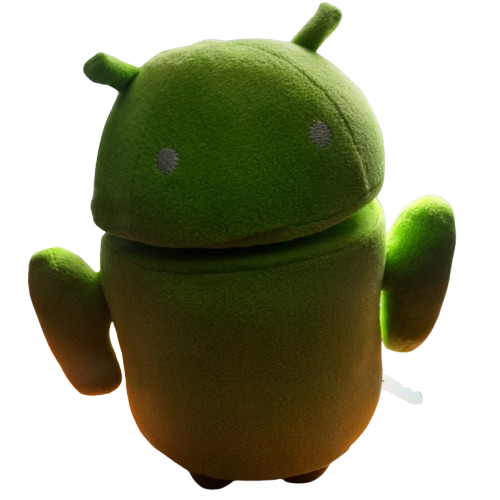
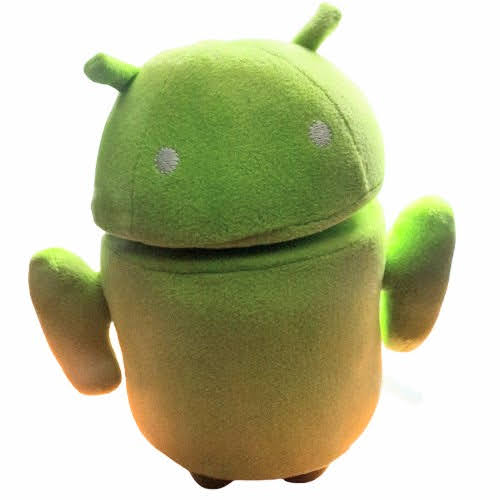
2 LEGO products

diff --git a/toys/android-lego-ideas.html b/toys/android-lego-ideas.html
@@ -1,0 +1,73 @@
+<!DOCTYPE html>
+<html lang="en">
+<head>
+    <title>Android (LEGO Ideas)</title>
+    <meta name="description" content="The Android from LEGO Ideas was a proposed Bugdroid statue based off the classic design. It has moveable arms, antennas, and a turning head.">
+    <meta name="theme-color" content="#A4C639">
+    <meta name="keywords" content="LEGO, statue, Bugdroid, Droid, Android, Google">
+    <meta name="viewport" content="width=device-width, initial-scale=1">
+    <meta property="og:title" content="Android (LEGO Ideas)">
+    <meta property="og:description" content="The Android from LEGO Ideas was a proposed Bugdroid statue based off the classic design. It has moveable arms, antennas, and a turning head.">
+    <meta property="og:url" content="https://bugdroid.org/toys/android-lego-ideas">
+    <meta property="og:image" content="https://bugdroid.org/media/products/android-lego-1.png">
+    <meta property="og:image:alt" content="A Bugdroid statue built from LEGO bricks.">
+    <meta property="og:image:width" content="800">
+    <meta property="og:image:height" content="800">
+    <meta property="og:image:type" content="image/png">
+    <meta property="og:type" content="website">
+    <meta property="og:locale" content="en_US">
+    <meta property="og:site_name" content="Bugdroid.org">
+    <meta property="payment:currency" content="USD">
+    <meta property="payment:amount" content="00.00">    
+    <link rel="stylesheet" href="/meta/droid.css">
+    <link rel="icon" type="image/x-icon" href="/favicon.ico">
+    <script src="/meta/site-gallery.js" defer></script>
+</head>
+<body>
+
+<nav><header><a href="/">bugdroid.org</a>/<a href="../toys">toys</a>/android-lego-ideas</header></nav>
+
+<h1>Android (LEGO Ideas)</h1>
+
+<div class="individual">
+    <div class="box" id="Gallery">
+        <img src="../media/products/android-lego-1.png" class="slides">
+        <img src="../media/products/android-lego-2.png" class="slides">
+        <img src="../media/products/android-lego-3.png" class="slides">
+        <img src="../media/products/android-lego-4.png" class="slides">
+
+        <header><button onclick="prevSlide()">◀</button> <button onclick="nextSlide()">▶</button></header>
+    </div>
+
+    <div class="texts">
+        <div class="box" id="About">
+            <header>About</header>
+            <p>The <b>Android</b> from LEGO Ideas was a proposed Bugdroid statue based off the classic design. It has moveable arms, antennas, and a turning head.</p>
+            <br>
+        </div>
+
+        <div class="box" id="Info">
+            <header>Information</header>
+            <ul>
+                <li><mark>Full Name:</mark> <b>Andy/Bugdroid the Android by Google</b></li>
+                <li><mark>Manufacturer:</mark> LEGO, ChiefLogicalArtichoke <span class="hide">(assembler)</span></li>
+                <li><mark>Release Year:</mark> 2012</li>
+                <li><mark>Price:</mark> None</li>
+                <br>
+                <li><a href="https://beta.ideas.lego.com/product-ideas/94b58189-9e4d-44b8-9ce3-476fc7b33c02">View on LEGO Ideas</a></li>
+            </ul>
+        </div>
+
+        <div class="box" id="Extras">
+            <header>Extras</header>
+            <details>
+                <summary>View additional minifig</summary>
+                <p><img src="../media/products/android-lego-minifig.png" style="width:100%"></p>
+                <figcaption>Shown in the description is a custom LEGO minifig.</figcaption>
+            </details>
+        </div>
+    </div>
+</div>
+
+</body>
+</html>

diff --git a/toys/android-puzzlebot.html b/toys/android-puzzlebot.html
@@ -1,0 +1,63 @@
+<!DOCTYPE html>
+<html lang="en">
+<head>
+    <title>Android Puzzlebot</title>
+    <meta name="description" content="The Android Puzzlebot is a tiny Bugdroid brick statue made out of imitation LEGO pieces, it has moveable arms.">
+    <meta name="theme-color" content="#A4C639">
+    <meta name="keywords" content="LEGO, statue, Bugdroid, Droid, Android, Google">
+    <meta name="viewport" content="width=device-width, initial-scale=1">
+    <meta property="og:title" content="Android Puzzlebot">
+    <meta property="og:description" content="The Android Puzzlebot is a tiny Bugdroid brick statue made out of imitation LEGO pieces, it has moveable arms.">
+    <meta property="og:url" content="https://bugdroid.org/toys/android-puzzlebot">
+    <meta property="og:image" content="https://bugdroid.org/media/products/android-puzzlebot-1.png">
+    <meta property="og:image:alt" content="A tiny Bugdroid LEGO statue.">
+    <meta property="og:image:width" content="800">
+    <meta property="og:image:height" content="800">
+    <meta property="og:image:type" content="image/png">
+    <meta property="og:type" content="website">
+    <meta property="og:locale" content="en_US">
+    <meta property="og:site_name" content="Bugdroid.org">
+    <meta property="payment:currency" content="USD">
+    <meta property="payment:amount" content="00.00">    
+    <link rel="stylesheet" href="/meta/droid.css">
+    <link rel="icon" type="image/x-icon" href="/favicon.ico">
+    <script src="/meta/site-gallery.js" defer></script>
+</head>
+<body>
+
+<nav><header><a href="/">bugdroid.org</a>/<a href="../toys">toys</a>/android-puzzlebot</header></nav>
+
+<h1>Android Puzzlebot V2</h1>
+
+<div class="individual">
+    <div class="box" id="Gallery">
+        <img src="../media/products/android-puzzlebot-1.png" class="slides"><!--Altered by Google Gemini for white background-->
+        <img src="../media/products/android-puzzlebot-2.png" class="slides"><!--Altered by Google Gemini for white background-->
+        <img src="../media/products/android-puzzlebot-3.png" class="slides"><!--Altered in Photopea for white background and color touch-ups-->
+        <img src="../media/products/android-puzzlebot-4.png" class="slides"><!--Altered in Photopea for white background and color touch-ups-->
+        <!--All images were found on Mercari-->
+        <header><button onclick="prevSlide()">◀</button> <button onclick="nextSlide()">▶</button></header>
+    </div>
+
+    <div class="texts">
+        <div class="box" id="About">
+            <header>About</header>
+            <p>The <b>Android Puzzlebot</b> is a tiny Bugdroid brick statue made out of imitation LEGO pieces, it has moveable arms. It was likely sold on the old Google Store.</p>
+            <br>
+        </div>
+
+        <div class="box" id="Info">
+            <header>Information</header>
+            <ul>
+                <li><mark>Full Name:</mark> <b>Android Puzzlebot</b></li>
+                <li><mark>Manufacturer:</mark> Unknown</li>
+                <li><mark>Release Year:</mark> 2013 at least <span class="hide">(via the box)</span></li>
+                <li><mark>ID:</mark> Unknown</li>
+                <li><mark>Price:</mark> Unknown</li>
+            </ul>
+        </div>
+    </div>
+</div>
+
+</body>
+</html>

diff --git a/toys/plushies/google-round-plush.html b/toys/plushies/google-round-plush.html
@@ -36,8 +36,7 @@
         <img src="../../media/products/round-bugdroid-plush-3.png" class="slides">
         <img src="../../media/products/round-bugdroid-plush-4.png" class="slides">
         <img src="../../media/products/round-bugdroid-plush-5.png" class="slides">
-        <!--Images altered by Google Gemini to have white backgrounds with color touch-ups. Quality is still fine.-->
-
+        <!--All altered by Google Gemini for white background-->
         <header><button onclick="prevSlide()">◀</button> <button onclick="nextSlide()">▶</button></header>
     </div>
 
@@ -45,18 +44,27 @@
         <div class="box" id="About">
             <header>About</header>
             <p>Google's Round Plush <span class="hide">(unknown real name)</span> is the successor to the round Eco Droid Squishable plush. It has more thick antennas with a more colorful green.</p>
-            <p>It is officially licensed by Google, has a permanent arm pose. 14".</p>
+            <p>It is officially licensed by Google, has a permanent arm pose. 10.5".</p>
             <br>
         </div>
 
         <div class="box" id="Info">
             <header>Information</header>
             <ul>
-                <li><mark>Full Name:</mark> Unknown</li>
+                <li><mark>Full Name:</mark> <b>Android Plush</b> <span class="hide">(in 2023)</span></li>
                 <li><mark>Manufacturer:</mark> Unknown</li>
                 <li><mark>Release Year:</mark> 2015 at least <span class="hide">(via the tag)</span></li>
-                <li><mark>Price:</mark> Unknown</li>
+                <li><mark>Price:</mark> $18.00  <span class="hide">(via Play Points)</span></li>
             </ul>
+        </div>
+
+        <div class="box" id="Extras">
+            <header>Extras</header>
+            <details>
+                <summary>View Google Play appearance</summary>
+                <p>This plush made an appearance in Google Play as a redeemable item for 1,800 Play Points. It is simply referred to as "Android Plush".</p>
+                <img src="../../media/products/round-bugdroid-plush-gpappearance.png">
+            </details>
         </div>
     </div>
 </div>

diff --git a/figurines/amazeing.html b/figurines/amazeing.html
@@ -42,6 +42,7 @@
         <div class="box" id="About">
             <header>About</header>
             <p><b>a-MAZE-ing</b> is a transparent figure that has a green maze inside with a tiny silver marble inside.</p>
+            <p>Interestingly, the worldwide Google Merch Shop refers to it as <b>Android Puzzle Bot Figurine</b>, a potentially unaware call back to the actual <a href="/toys/android-puzzlebot-v2">Puzzlebot</a>. <img src="/meta/emote-happy.png" class="emo" alt=""></p>
             <details>
                 <summary>View original Google Merch synopsis</summary>
                 <p>A-MAZE-ing is the only way to describe this unique, collectible Android figurine. Could you even think of a better name?</p>
@@ -54,11 +55,24 @@
                 <li><mark>Full Name:</mark> <b>Android a-MAZE-ing Collectible</b></li>
                 <li><mark>Manufacturer:</mark> Dyzplastic</li>
                 <li><mark>Release Year:</mark> 2025</li>
-                <li><mark>ID:</mark> GGOEAODH252999</li>
+                <li><mark>ID:</mark> GGOEAODH252999 and GGL2348</li>
                 <li><mark>Price:</mark> $24.00</li>
                 <br>
                 <li><a href="https://shop.merch.google/product/android-a-maze-ing-collectible-ggoeaodh252999">View on Google Merch US</a></li>
             </ul>
+        </div>
+
+        <div class="box" id="Extras">
+            <header>Extras</header>
+            <details>
+                <summary>View original Google Merch <abbr title="Worldwide">WW</abbr> synopsis</summary>
+                <blockquote><b>A new Android Collectible – for the puzzle lovers.</b></blockquote>
+                <p>Tilt and rotate your a-maze-ing Android to guide the ball from one chamber to the other! It makes the perfect addition to your desk or shelf.</p>
+                <ul>
+                    <li>Height: 8cm</li>
+                    <li>Packaged in a recyclable Android themed box</li>
+                </ul>
+            </details>
         </div>
     </div>
 </div>

diff --git a/toys/plushies/generic-classic-plush.html b/toys/plushies/generic-classic-plush.html
@@ -31,13 +31,12 @@
 
 <div class="individual">
     <div class="box" id="Gallery">
-        <img src="../../media/products/generic-plush-1.png" class="slides"><!--Google Gemini altered to extend background, then cropped into square-->
-        <img src="../../media/products/generic-plush-2.png" class="slides"><!--Google Gemini altered to extend background, then cropped into square-->
+        <img src="../../media/products/generic-plush-1.png" class="slides"><!--Altered by Google Gemini for white background-->
+        <img src="../../media/products/generic-plush-2.png" class="slides"><!--Altered by Google Gemini for white background-->
         <img src="../../media/products/generic-plush-3.png" class="slides">
-        <img src="../../media/products/generic-plush-4.png" class="slides"><!--Google Gemini altered to extend background, then cropped into square-->
-        <img src="../../media/products/generic-plush-5.png" class="slides"><!--Made in Photopea-->
-        <!--All pictures based on the ones found on a Mercari listing where I bought mine, https://www.mercari.com/us/item/m17037650458/-->
-
+        <img src="../../media/products/generic-plush-4.png" class="slides"><!--Altered by Google Gemini for white background-->
+        <img src="../../media/products/generic-plush-5.png" class="slides"><!--Made in Photopea, combining the two tag images-->
+        <!--All images were taken from Mercari, specifically the listing I bought, mercari.com/us/item/m17037650458-->
         <header><button onclick="prevSlide()">◀</button> <button onclick="nextSlide()">▶</button></header>
     </div>
 

diff --git a/help.html b/help.html
@@ -116,9 +116,15 @@
     <details>
         <summary>The robot is called "Bugdroid" or "Android"?</summary>
         <p>In Android's licensing pages, it is referred to as <a href="https://developer.android.com/distribute/marketing-tools/brand-guidelines#android_robot">"Android bot"</a>,
-           In Google's 2023 rebrand blog, it was called <a href="https://blog.google/products/android/modern-look/">"bugdroid"</a>.
+           In Google's 2023 rebrand blog, it was called <a href="https://blog.google/products/android/modern-look/">"bugdroid"</a>. Sometimes people say "Andy" or simply "Android".
            In Google's CES 2024 blog, it was called <a href="https://blog.google/products/android/google-ces-2024-android-experience/">"The Bot"</a>.</p>
         <p>It is kinda all over the place. <img src="/meta/emote-surprised.png" class="emo" alt=""> For simplicity, "bugdroid" is used for the robot.</p>
+    </details>
+    <details>
+        <summary>What is official?</summary>
+        <p>As Google is where Bugdroid originated, I consider it the be the official company of it. Google Merch Shop and Dead Zebra Shop are examples of official products.</p>
+        <p>Though "not official" should rarely be used as the design is placed under CC BY, allowing any company like FRIC or Canary Marketing to make their own Bugdroid merchandise.</p>
+        <p>The only time I would say "bootleg" is when companies try to deliberatly clone merchandise. For example, Dead Zebra's Android figurines are a hot spot for fakes.</p>
     </details>
 </article>
 

diff --git a/toys/index.html b/toys/index.html
@@ -31,7 +31,8 @@
     <div class="box"><a href="plushies"><div class="content">
         <header>/plushies</header>
         <img src="../meta/subpage-plushies.png">
-    </div></a></div>
+    </div>
+    </a></div>
 
     <br>
 
@@ -49,17 +50,26 @@
         <div class="contents">
             <p>Windup Android</p>
             <span class="year">2017</span>
-            <span class="price">$3</span>
+            <span class="price">$4</span>
         </div>
     </a></div>
 
-    <div class="box">
-        <img src="../media/products/lego-android-nominee.png">
+    <div class="box"><a href="android-puzzlebot">
+        <img src="../media/products/android-puzzlebot-1.png">
         <div class="contents">
-            <p>This LEGO Bugdroid was <a href="https://ideas.lego.com/projects/94b58189-9e4d-44b8-9ce3-476fc7b33c02/statistics">submitted to LEGO Ideas</a>, and made it to 'Expert Review' portion. It was denied for unclear reasons.</p>
-            <span class="year">2012<!--08-05-->, No page available.</span>
+            <p>Android Puzzlebot</p>
+            <span class="year">2013</span>
+            <span class="price">$16</span>
         </div>
-    </div>
+    </a></div>
+
+    <div class="box"><a href="android-lego-ideas">
+        <img src="../media/products/android-lego-1.png">
+        <div class="contents">
+            <p>Android (LEGO Ideas)</p>
+            <span class="year">2012</span>
+        </div>
+    </a></div>
 
     <div class="box">
         <img src="../media/products/remote-control-android.png">

diff --git a/toys/plushies/dead-zebra-plushie.html b/toys/plushies/dead-zebra-plushie.html
@@ -36,12 +36,12 @@
 
 <div class="individual">
     <div class="box" id="Gallery">
-        <img src="../../media/products/android-plush-dead-zebra-1.png" class="slides">
-        <img src="../../media/products/android-plush-dead-zebra-2.png" class="slides">
-        <img src="../../media/products/android-plush-dead-zebra-3.png" class="slides">
+        <img src="../../media/products/android-plush-dead-zebra-1.png" class="slides"><!--Altered by Google Gemini for white background-->
+        <img src="../../media/products/android-plush-dead-zebra-2.png" class="slides"><!--Altered by Google Gemini for white background-->
+        <img src="../../media/products/android-plush-dead-zebra-3.png" class="slides"><!--Altered by Google Gemini for white background-->
         <img src="../../media/products/android-plush-dead-zebra-4.png" class="slides">
         <img src="../../media/products/android-plush-dead-zebra-5.png" class="slides">
-
+        <!--All images were given by a GitHub contributor, iiSpectre-->
         <header><button onclick="prevSlide()">◀</button> <button onclick="nextSlide()">▶</button></header>
     </div>
 

diff --git a/toys/android-puzzlebot-v2.html b/toys/android-puzzlebot-v2.html
@@ -42,7 +42,7 @@
         <div class="box" id="About">
             <header>About</header>
             <p>The <b>Android Puzzlebot V2</b> is a tiny Bugdroid brick statue made out of not-LEGO pieces, (<img src="/meta/emote-winking.png" class="emo" alt="">) it has a propeller hat while
-            standing on a black platform. The "V2" part of the name suggests it is a revision of another brick statue.</p>
+            standing on a black platform. This is the successor to the original Android Puzzlebot.</p>
             <details>
                 <summary>View original Google Merch Store synopsis</summary>
                 <p>Assemble your very own Android robot to display on your desk.</p>

diff --git a/toys/plushies/eco-droid.html b/toys/plushies/eco-droid.html
@@ -32,8 +32,7 @@
 <div class="individual">
     <div class="box" id="Gallery">
         <img src="../../media/products/eco-droid-squishable-1.jpg" class="slides">
-        <img src="../../media/products/eco-droid-squishable-2.png" class="slides">
-        <!--Second image altered by Google Gemini to have white backgrounds with color touch-ups. Quality is still fine.-->
+        <img src="../../media/products/eco-droid-squishable-2.png" class="slides"><!--Altered by Google Gemini for white background-->
 
         <header><button onclick="prevSlide()">◀</button> <button onclick="nextSlide()">▶</button></header>
     </div>

diff --git a/toys/plushies/google-flat-plush.html b/toys/plushies/google-flat-plush.html
@@ -38,7 +38,7 @@
         <img src="../../media/products/bugdroid-flat-plush-5.png" class="slides">
         <img src="../../media/products/bugdroid-flat-plush-6.png" class="slides">
         <img src="../../media/products/bugdroid-flat-plush-7.png" class="slides">
-        <!--Images altered by Google Gemini to have white backgrounds with color touch-ups. Quality is still fine.-->
+        <!--All atered by Google Gemini for white background-->
 
         <header><button onclick="prevSlide()">◀</button> <button onclick="nextSlide()">▶</button></header>
     </div>

diff --git a/figurines/mailer-daemon.html b/figurines/mailer-daemon.html
@@ -57,7 +57,7 @@
             <ul>
                 <li><mark>Full Name:</mark> <b>Android Mini Special Edition - Mailer Daemon</b></li>
                 <li><mark>Manufacturer:</mark> Dyzplastic</li>
-                <li><mark>Release Year:</mark> ~2021</li>
+                <li><mark>Release Year:</mark> <!--Halloween--> 2021</li>
                 <li><mark>Price:</mark> $12.00</li>
                 <br>
                 <li><a href="https://shop.deadzebra.com/android-mini-special-edition-mailer-daemon">View on Dead Zebra Shop</a></li>
